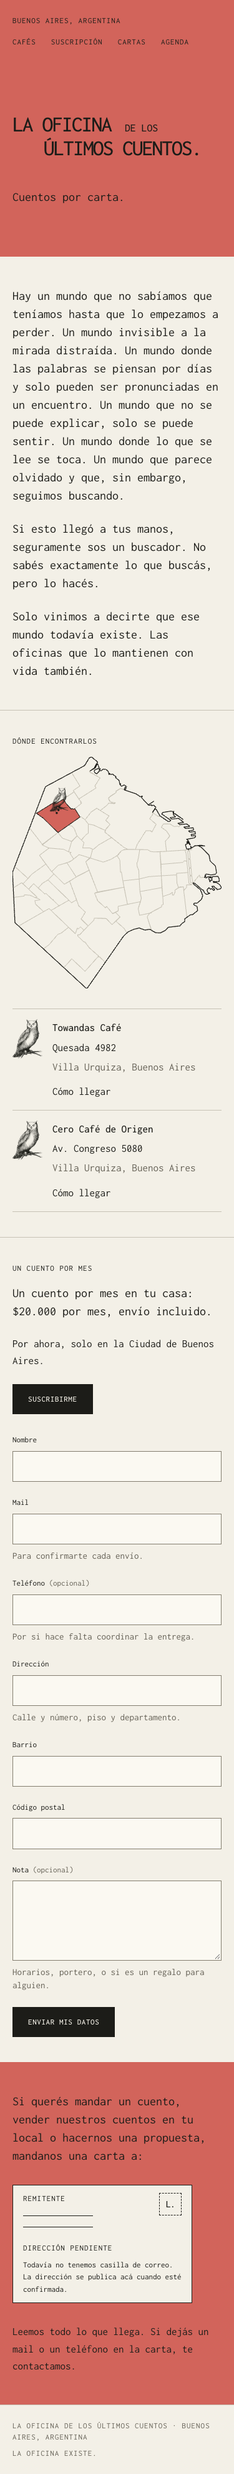
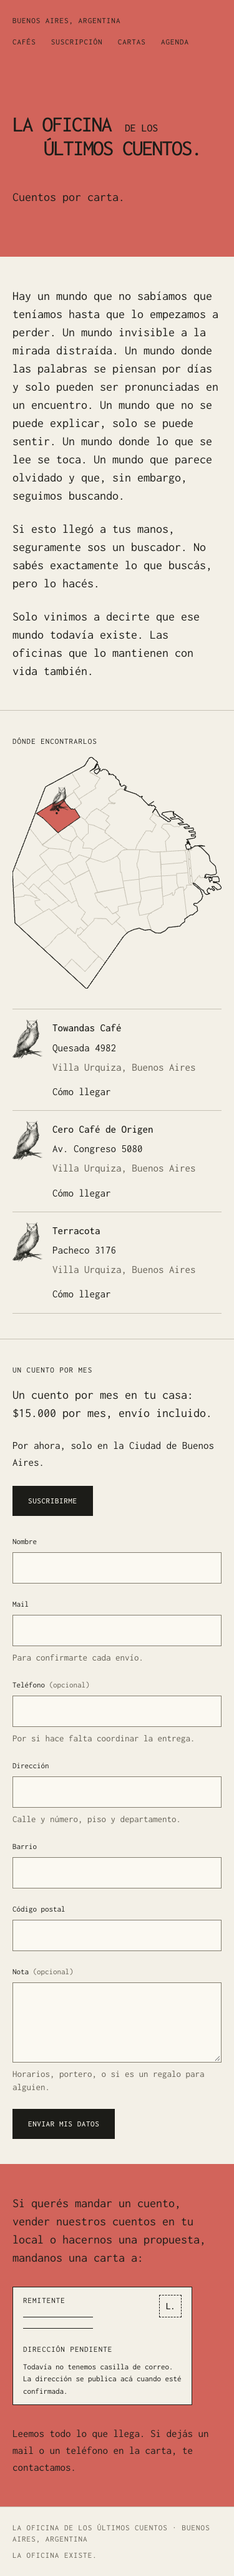
feat: Terracota en Dónde encontrarlos
- site.locales suma Terracota (Pacheco 3176, Villa Urquiza): dirección del Instagram del café, coordenadas y cid de su ficha de Google Maps.
- Los tres locales quedan a pocas cuadras y comparten la lechuza del mapa.
- QA: espera el local nuevo; capturas regeneradas. DESIGN_SYSTEM anotado.

diff --git a/src/content/site.ts b/src/content/site.ts
@@ -27,6 +27,7 @@ export const site = {
   locales: [
     { nombre: "Towandas Café", barrio: "Villa Urquiza", ciudad: "Buenos Aires", direccion: "Quesada 4982", lat: -34.5675666, lon: -58.4883118, mapa: "https://maps.google.com/?cid=9051435198881607600" },
     { nombre: "Cero Café de Origen", barrio: "Villa Urquiza", ciudad: "Buenos Aires", direccion: "Av. Congreso 5080", lat: -34.5697631, lon: -58.4899585, mapa: "https://maps.google.com/?cid=7839819865668560653" },
+    { nombre: "Terracota", barrio: "Villa Urquiza", ciudad: "Buenos Aires", direccion: "Pacheco 3176", lat: -34.5667354, lon: -58.4893912, mapa: "https://maps.google.com/?cid=15691269739881840877" },
   ] as Local[],
   /** The monthly subscription: price as shown (decisiones, fila Suscripción) and the Mercado Pago subscription link Joaquín generates; empty link: the page says payment is arranged by mail. */
   suscripcion: {

diff --git a/DESIGN_SYSTEM.md b/DESIGN_SYSTEM.md
@@ -261,6 +261,8 @@ Para cambiar el sistema:
 
 **30-oct-2026 (sigue v1.3):** segundo local en Dónde encontrarlos, Cero Café de Origen (Av. Congreso 5080, Villa Urquiza), a tres cuadras de Towandas. Como dos lechuzas tan cerca se dibujaban una sobre la otra, los locales a menos del ancho de la lechuza comparten una, parada entre sus puntos; cada local conserva su punto en el mapa y su fila en la lista. Sin tokens ni componentes nuevos.
 
+**17-nov-2026 (sigue v1.3):** tercer local en Dónde encontrarlos, Terracota (Pacheco 3176, Villa Urquiza), a pedido de Joaquín; dirección del Instagram del café y coordenadas de su ficha de Google Maps. Queda a dos cuadras de Towandas, así que los tres locales comparten la misma lechuza. Sin tokens ni componentes nuevos.
+
 **v1.2, 27-sep-2026:** la web pasa a ser solo presencia y solo cartas (pedido de Joaquín: menos texto, espíritu de misterio, primer contacto en papel). Se retiran el formulario, Formspree, el mail público y la página de privacidad; la página queda en portada, manifiesto, invitación y dirección postal. Regla nueva: lo digital sirve para encontrar a la Oficina y todo lo demás pasa en papel. Descartados el cursor con vela y la portada noche; el búho quedó como sello futuro (ver 28-sep).
 
 **28-sep-2026:** entra el manifiesto de Joaquín en tres párrafos, sin cambios de tokens ni componentes. El build pre-renderiza la página y agrega datos estructurados Organization; el dominio público es laoficinaexiste.com. Cuarta ronda de Astra: tres objeciones técnicas aceptadas (sin `noscript`, sin `areaServed`, dirección como texto), sin bloqueantes visuales. Ajustes posteriores del mismo día, por pedido de Joaquín: la línea de portada pasa a “Cuentos por carta.”; la invitación y la dirección forman una segunda sección roja con “mandanos una carta a:” y la nota sobre mail o teléfono en la carta; se retiran “Lo que se publica lleva la firma de la Oficina.” y “Los remitentes se usan solo para responder.”; el pie cierra con “La Oficina existe.” La firma colectiva y el uso de los remitentes siguen como reglas internas, no como texto de la web. Como el bloque rojo quedaba en puro texto, la dirección pasa al frente de un sobre de papel: componente `Envelope`, nuevo en el sistema y en el muestrario, con las líneas del remitente y la estampilla. Búho: a pedido de Joaquín se dibujaron dos búhos originales para el sello (una silueta de cuerpo entero y, después, un grabado a pluma generado por script); ninguno lo convenció y el mismo día pidió volver a la “L.” de la firma. Queda así: la “L.” en tinta sobre el rojo de la portada es el favicon y el ícono de iPhone (PNG generados por el script con la tipografía de la página) y también la estampilla del sobre, en la fuente de etiquetas con el peso y el tracking de la firma. No hay ilustraciones en la web. Último ajuste del día: el sobre pasa a ser un detalle (18 rem de ancho como máximo, dirección en tamaño de etiqueta, estampilla y líneas del remitente proporcionales), porque a Joaquín le resultaba demasiado grande: lo pidió más chico dos veces. La sección roja lleva el texto a todo el ancho, a diferencia del manifiesto.
